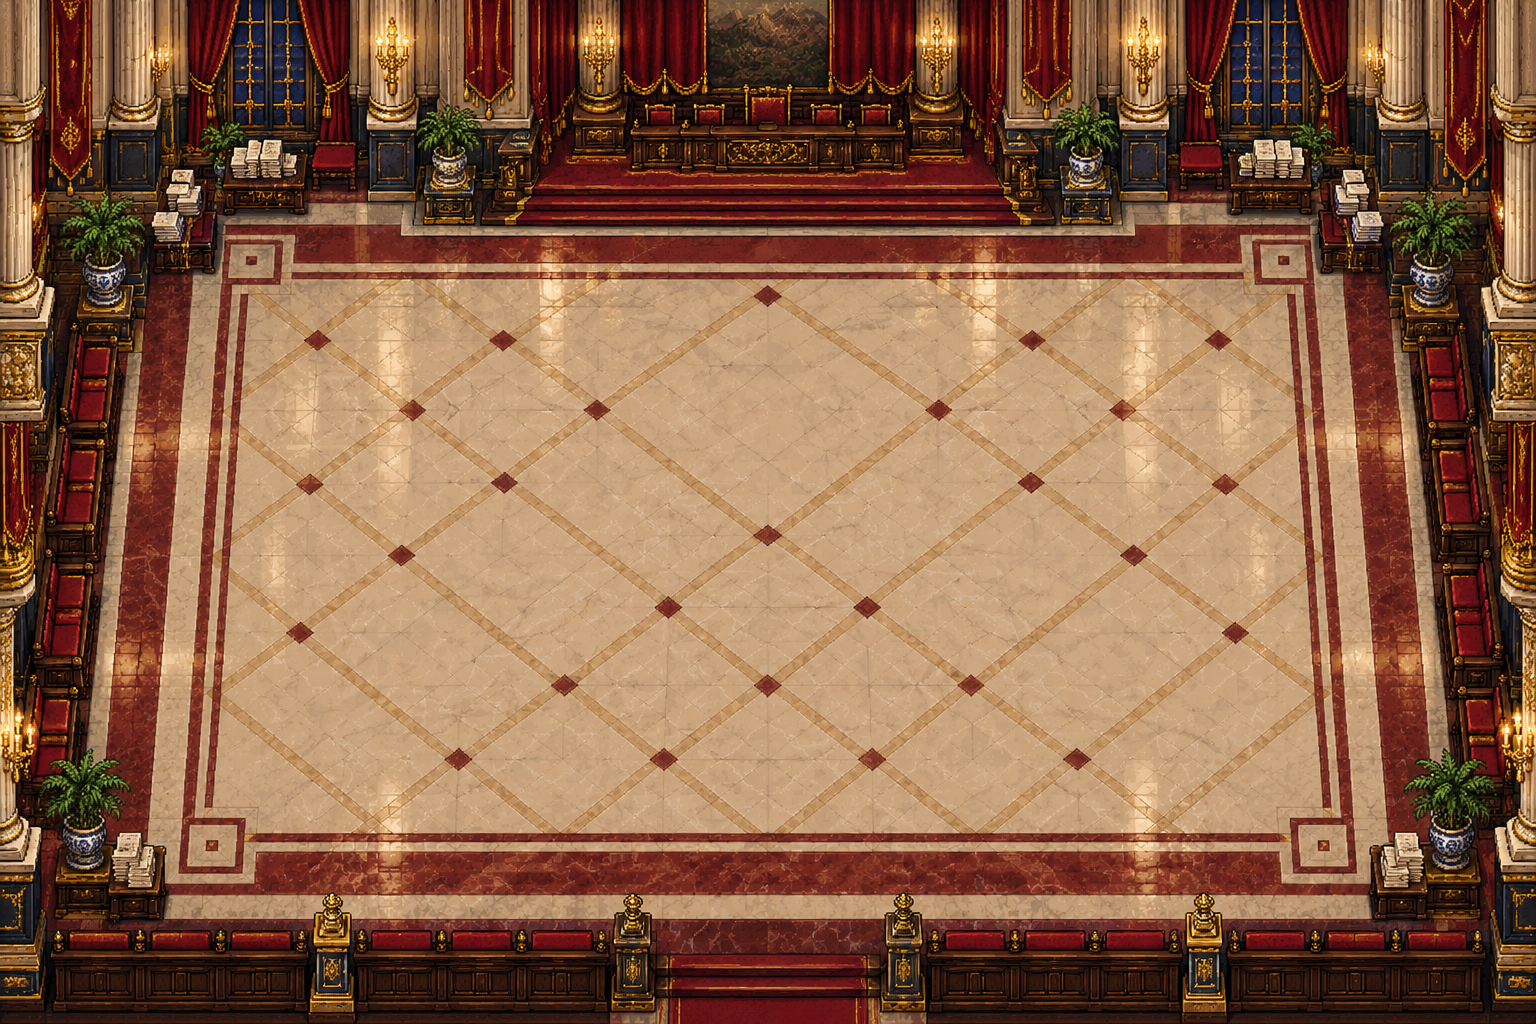
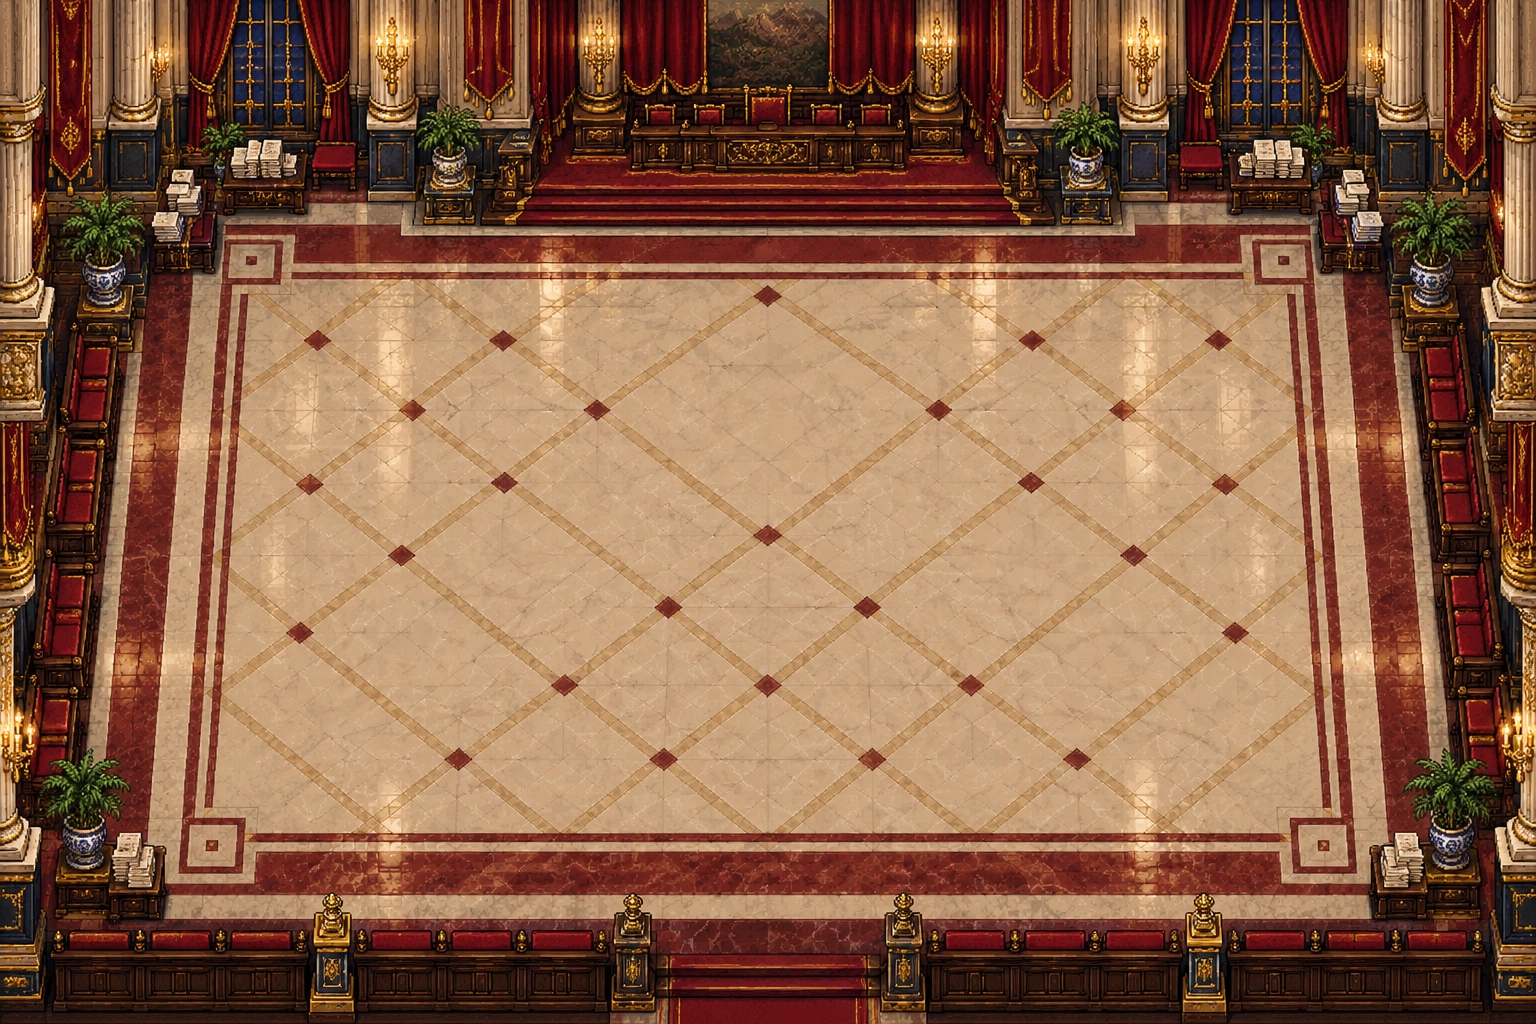
Sumergir objetos bajo dominios dinámicos (#383)
Los objetos y cofres cubiertos se hunden, quedan temporalmente fuera de interacción y reaparecen intactos al cerrar el dominio. También se recupera margen seguro para el paquete de despliegue.

Changed region(s): [[0.9375, 0.0625, 0.9688, 0.1562], [0.9688, 0.4375, 1.0, 0.4688], [0.0, 0.4375, 0.0312, 0.4688]]

diff --git a/src/systems/sideral-domain.js b/src/systems/sideral-domain.js
@@ -51,7 +51,15 @@ P.SideralDomain.introClean=function(c,w,h,d){const p=this.pose(d.age),label=(val
 {const arena=P.SideralDomain.arena;P.SideralDomain.arena=function(c,d,...args){const waveAt=d.waveAt,exit=d.exit?1-d.exit/d.exitTotal:0;d.waveAt=undefined;c.save();if(exit>0)c.globalAlpha=Math.max(.08,1-exit*.9);const result=arena.call(this,c,d,...args);c.restore();d.waveAt=waveAt;const waveAge=waveAt===undefined?99:d.age-waveAt;if(waveAge<1.05){const x=d.waveX??d.x,y=d.waveY??d.y;c.save();for(let i=0;i<4;i++){const q=Math.max(0,Math.min(1,waveAge/1.05+i*.13)),r=55+q*520;c.globalAlpha=(1-q)*.75;c.strokeStyle=i%2?'#f28bea':'#9a55ff';c.lineWidth=8-i;c.beginPath();c.ellipse(x,y,r,r*.58,0,0,Math.PI*2);c.stroke()}c.restore()}if(exit>0){c.save();for(let i=0;i<72;i++){const q=(i*29%73)/73,life=Math.max(0,Math.min(1,(exit-q)*4)),a=i*.79,r=80+(i%13)*38,x=d.x+Math.cos(a)*r,y=d.y+Math.sin(a)*r*.62-exit*90;c.globalAlpha=life*(1-exit*.45);c.fillStyle=i%3?'#b85cff':'#ff8de5';const size=3+(i%4)*2;c.fillRect(x,y,size,size)}c.restore()}return result}};
 {const tick=P.SideralDomain.tick,overlay=P.SideralDomain.overlay;P.SideralDomain.tick=function(dt){const d=P.state.sideralDomain;if(d&&!this.dynamic(d)&&(d.age<this.entryFor(d)||d.exit>0))for(const p of P.Court?.players?.()||[P.state.player])if(p?.hp>0)p.inv=Math.max(p.inv||0,dt+.12);return tick.call(this,dt)};P.SideralDomain.intro=function(c,w,h,d){const q=this.introShake(d.age);c.save();c.fillStyle='#120b19';c.fillRect(0,0,w,h);c.translate(q.x,q.y);const result=this.introClean(c,w,h,d);c.restore();return result};P.SideralDomain.overlay=function(c,w,h,d){const result=overlay.call(this,c,w,h,d);if(!d.exit)return result;const q=1-d.exit/d.exitTotal,pulse=Math.sin(Math.min(1,q/.36)*Math.PI);c.save();c.textAlign='center';c.font='900 '+Math.min(48,w/18)+'px monospace';c.lineWidth=Math.max(5,w/180);c.strokeStyle='#17091f';c.fillStyle='#fff0bd';c.globalAlpha=Math.min(1,q*5)*Math.max(0,1-(q-.72)*3);c.strokeText('¿QUÉ FUE?',w*.5,h*.2);c.fillText('¿QUÉ FUE?',w*.5,h*.2);c.globalAlpha=pulse;c.strokeStyle='#fff8d5';c.lineWidth=Math.max(3,w*.004);c.beginPath();c.moveTo(w*.36,h*.5);c.lineTo(w*.64,h*.5);c.stroke();c.fillStyle='#fff';c.fillRect(w*.495,h*.493,w*.01,h*.014);c.restore();P.Core.canvas?.setAttribute('aria-label','La Habitación del Lagarto se quiebra en píxeles y reconstruye el mapa original')};};
 P.SideralDomain.load();
-{const activate=P.Ultimate.activate,gain=P.Ultimate.gain,hud=P.Ultimate.hud,update=P.Game.update,start=P.Game.start,render=P.World.render,hit=P.PlayerFeedback.hit,hurt=P.Entities.hurt,terrainActive=P.Terrain.active,terrainHit=P.Terrain.hit,terrainResolve=P.Terrain.resolve,terrainDraw=P.Terrain.draw,worldDraw=P.World.draw,zoomFor=P.World.zoomFor,mapCamera=P.Maps.camera,mapCurrent=P.Maps.current,ambientItems=P.Ambient.items,dayGround=P.DayNight.ground,weatherDraw=P.Weather.draw,reactiveDraw=P.ReactiveBackground.draw,encounterDefinition=P.Encounters.definition,combatCast=P.Combat.cast,ultimateShake=P.Ultimate.shake;
+P.DomainScenery={
+ current(){const s=P.state,sd=s.sideralDomain,cd=s.ciriloDomain;if(sd&&P.SideralDomain.dynamic(sd))return{d:sd,entry:P.SideralDomain.entryFor(sd),rx:P.SideralDomain.roomWidth*.55,ry:P.SideralDomain.roomHeight*.62};if(cd&&P.CiriloUR?.dynamic?.(cd))return{d:cd,entry:P.CiriloUR.entryFor(cd),rx:P.CiriloArena.width*.52,ry:P.CiriloArena.height*.58};return null},
+ progress(info=this.current()){if(!info)return 0;const d=info.d;if(d.exit&&d.exitTotal)return Math.max(0,Math.min(1,d.exit/d.exitTotal));return Math.max(0,Math.min(1,d.age/info.entry))},
+ inside(o,info=this.current()){if(!info||!o||!Number.isFinite(o.x)||!Number.isFinite(o.y))return false;const nx=(o.x-info.d.x)/info.rx,ny=(o.y-info.d.y)/info.ry;return nx*nx+ny*ny<=1},
+ paint(ctx,o,draw,footprint=false){const info=this.current();if(!info||!this.inside(o,info)||String(o.kind||'').startsWith('sideral-')||String(o.kind||'').startsWith('cirilo-'))return false;const q=this.progress(info);if(q<=0)return false;ctx.save();if(q<.995){ctx.globalAlpha=1-q;ctx.translate(0,q*28);draw()}if(footprint&&o.solid&&q>.25){ctx.globalAlpha=.16*q;ctx.fillStyle='#100819';ctx.beginPath();ctx.ellipse(o.x,o.y+Math.max(5,(o.h||20)*.38),Math.max(10,(o.w||24)*.38),Math.max(4,(o.h||20)*.12),0,0,Math.PI*2);ctx.fill()}ctx.restore();return true},
+ hideChest(c){const info=this.current();return !!info&&!!info.d.arena&&!info.d.exit&&this.inside(c,info)},
+ lockChest(c){const info=this.current();return !!info&&this.progress(info)>0&&this.inside(c,info)}
+};
+{const activate=P.Ultimate.activate,gain=P.Ultimate.gain,hud=P.Ultimate.hud,update=P.Game.update,start=P.Game.start,render=P.World.render,hit=P.PlayerFeedback.hit,hurt=P.Entities.hurt,terrainActive=P.Terrain.active,terrainHit=P.Terrain.hit,terrainResolve=P.Terrain.resolve,terrainDraw=P.Terrain.draw,worldDraw=P.World.draw,zoomFor=P.World.zoomFor,mapCamera=P.Maps.camera,mapCurrent=P.Maps.current,ambientItems=P.Ambient.items,dayGround=P.DayNight.ground,weatherDraw=P.Weather.draw,reactiveDraw=P.ReactiveBackground.draw,encounterDefinition=P.Encounters.definition,combatCast=P.Combat.cast,ultimateShake=P.Ultimate.shake,lootActive=P.Loot.active,lootDrawChest=P.Loot.drawChest,lootCanOpen=P.Loot.canOpen;
 P.Ultimate.activate=function(...args){return activate.apply(this,args)};
 P.Ultimate.gain=function(...args){if(P.SideralDomain.eligible(P.state.player)){const u=P.state.ultimate;if(u&&!P.state.sideralDomain)u.charge=Math.min(100,u.charge+100/P.SideralDomain.chargeKills);return}return gain.apply(this,args)};
 P.Ultimate.hud=function(){hud.call(this);P.SideralDomain.hud()};
@@ -63,7 +71,7 @@ P.Entities.hurt=function(e,damage,...args){if(P.state.sideralDomain&&e?.sideralW
 P.Terrain.active=function(){const d=P.state.sideralDomain;if(d?.arena&&!P.SideralDomain.dynamic(d)&&!d.exit)return P.SideralDomain.props(d);return terrainActive.call(this)};
 P.Terrain.hit=function(x,y,r=0){const d=P.state.sideralDomain;if(d?.arena&&!P.SideralDomain.dynamic(d)&&!d.exit)return P.SideralDomain.props(d).find(o=>o.solid&&x>o.x-o.w/2-r&&x<o.x+o.w/2+r&&y>o.y-o.h/2-r&&y<o.y+o.h/2+r);return terrainHit.call(this,x,y,r)};
 P.Terrain.resolve=function(body,old,r=14){const d=P.state.sideralDomain,intended=d?.arena?{x:body.x,y:body.y}:null,obstacle=intended?P.Terrain.hit(body.x,body.y,r):null,result=terrainResolve.call(this,body,old,r);if(obstacle?.kind==='sideral-wall'&&Math.hypot(body.x-intended.x,body.y-intended.y)>.1)body.sideralWallHit={side:obstacle.side,x:body.x,y:body.y};return result};
-P.Terrain.draw=function(ctx,o){if(String(o?.kind||'').startsWith('sideral-')){const d=P.state.sideralDomain,exit=d?.exit?1-d.exit/d.exitTotal:0;ctx.save();ctx.globalAlpha=Math.max(.05,1-exit);const result=P.SideralDomain.furniture(ctx,o);if(exit>0&&o.kind==='sideral-desk'){ctx.globalAlpha=Math.min(1,exit*2);ctx.fillStyle='#08060b';ctx.fillRect(o.x-o.w/2+42,o.y-o.h/2-62,86,58);ctx.fillRect(o.x-o.w/2+137,o.y-o.h/2-62,86,58)}ctx.restore();return result}return terrainDraw.call(this,ctx,o)};
+P.Terrain.draw=function(ctx,o){if(String(o?.kind||'').startsWith('sideral-')){const d=P.state.sideralDomain,exit=d?.exit?1-d.exit/d.exitTotal:0;ctx.save();ctx.globalAlpha=Math.max(.05,1-exit);const result=P.SideralDomain.furniture(ctx,o);if(exit>0&&o.kind==='sideral-desk'){ctx.globalAlpha=Math.min(1,exit*2);ctx.fillStyle='#08060b';ctx.fillRect(o.x-o.w/2+42,o.y-o.h/2-62,86,58);ctx.fillRect(o.x-o.w/2+137,o.y-o.h/2-62,86,58)}ctx.restore();return result}if(P.DomainScenery.paint(ctx,o,()=>terrainDraw.call(this,ctx,o),true))return true;return terrainDraw.call(this,ctx,o)};
 P.World.draw=function(ctx,cx,cy,w,h,time){const d=P.state.sideralDomain;if(d?.arena){if(P.SideralDomain.dynamic(d)){const result=worldDraw.call(this,ctx,cx,cy,w,h,time),opacity=d.exit?d.exit/d.exitTotal:1,field={...d,age:P.SideralDomain.entryFor(d)};P.SideralDomain.construction(ctx,field,time,opacity);return result}if(d.exit>0)worldDraw.call(this,ctx,cx,cy,w,h,time);return P.SideralDomain.arena(ctx,d,cx,cy,w,h,time)}const result=worldDraw.call(this,ctx,cx,cy,w,h,time);if(d&&P.SideralDomain.dynamic(d)&&d.age<P.SideralDomain.entryFor(d))P.SideralDomain.construction(ctx,d,time);return result};
 P.World.zoomFor=function(w,h,playing,encounter){const d=P.state.sideralDomain,base=zoomFor.call(this,w,h,playing,encounter);if(!d?.arena||P.SideralDomain.dynamic(d))return base;const arena=Math.max(.62,Math.min(1.18,w/1280,h/980));return d.exit?P.DomainReturn.number(d,arena,base):arena};
 P.Maps.camera=function(...args){const d=P.state.sideralDomain;if(!d?.arena||P.SideralDomain.dynamic(d))return mapCamera.apply(this,args);const arena={x:d.x,y:d.y-70};if(!d.exit)return arena;return P.DomainReturn.frame(d,arena,mapCamera.apply(this,args))};
@@ -75,6 +83,9 @@ P.Ambient.items=function(...args){const d=P.state.sideralDomain;return d?.arena&
 P.DayNight.ground=function(...args){const d=P.state.sideralDomain;if(!d?.arena||P.SideralDomain.dynamic(d))return dayGround.apply(this,args)};
 P.Weather.draw=function(...args){const d=P.state.sideralDomain;if(!d?.arena||P.SideralDomain.dynamic(d))return weatherDraw.apply(this,args)};
 P.ReactiveBackground.draw=function(...args){const d=P.state.sideralDomain;if(!d?.arena||P.SideralDomain.dynamic(d))return reactiveDraw.apply(this,args)};
+P.Loot.active=function(...args){return lootActive.apply(this,args).filter(c=>!P.DomainScenery.hideChest(c))};
+P.Loot.drawChest=function(ctx,c){if(P.DomainScenery.paint(ctx,c,()=>lootDrawChest.call(this,ctx,c)))return true;return lootDrawChest.call(this,ctx,c)};
+P.Loot.canOpen=function(c){if(P.DomainScenery.lockChest(c))return false;return lootCanOpen.call(this,c)};
 }
 if(typeof Image!=='undefined'){
  const launch=document.createElement('button'),dynamicLaunch=document.createElement('button');launch.id='sideral-domain-practice';launch.textContent='Probar Sideral · Cinemática ↗';dynamicLaunch.id='sideral-domain-dynamic-practice';dynamicLaunch.textContent='Probar Sideral · Dominio dinámico ↗';P.$('#lobby-settings').prepend(dynamicLaunch,launch);

diff --git a/docs/GAME_DESIGN.md b/docs/GAME_DESIGN.md
@@ -6,7 +6,7 @@ La experiencia continúa acumulándose mientras cualquier expansión de dominio 
 
 ## Regla universal de continuidad al cerrar dominios
 
-La presentación dinámica usa como referencia el círculo de Kingteka: no sustituye el seguimiento normal, no cambia el zoom y no mueve actores a coordenadas de una arena. Su geometría aparece sobre el mapa y el combate continúa dentro del mismo espacio. Mobiliario, público, acompañantes y demás sprites propios se conservan como capas visuales sin colisión; no sustituyen ni bloquean el terreno real. La presentación cinematográfica puede recolocar actores, pero nunca puede liberar cámara, zoom o posiciones mediante un salto visible; debe interpolar el retorno durante su destrucción y alcanzar el encuadre ordinario antes de eliminar el estado. Movimiento reducido conserva la continuidad y elimina únicamente adornos intensos. Todo dominio nuevo debe probar que el modo dinámico mantiene cámara, zoom y coordenadas y que el último fotograma cinematográfico coincide con el primero del mapa restaurado.
+La presentación dinámica usa como referencia el círculo de Kingteka: no sustituye el seguimiento normal, no cambia el zoom y no mueve actores a coordenadas de una arena. Su geometría aparece sobre el mapa y el combate continúa dentro del mismo espacio. Los objetos y cofres contenidos por la huella se hunden progresivamente, dejan de ser interactivos cuando la construcción termina y vuelven a emerger intactos durante la salida; un sólido oculto conserva una marca tenue en el suelo. Mobiliario, público, acompañantes y demás sprites propios se conservan como capas visuales sin colisión. Enemigos, jugadores, proyectiles y avisos peligrosos nunca se ocultan. La presentación cinematográfica puede recolocar actores, pero nunca puede liberar cámara, zoom o posiciones mediante un salto visible; debe interpolar el retorno durante su destrucción y alcanzar el encuadre ordinario antes de eliminar el estado. Movimiento reducido conserva la continuidad y elimina únicamente adornos intensos. Todo dominio nuevo debe probar que el modo dinámico mantiene cámara, zoom y coordenadas y que el último fotograma cinematográfico coincide con el primero del mapa restaurado.
 
 Cooperativo: R activa el dominio; G confirma el combo compartido (también disponible por botón). Las partidas activas no caducan a los 45 min; ese plazo limpia salas de espera/resultados inactivos. Se cancelan entradas pendientes al desconectar o recuperar un socket, y no se admiten entradas mientras falta un compañero. La misma pestaña conserva una credencial efímera de recuperación en sessionStorage, renovada durante la partida y pagehide; al recargar, espera la comprobación de cuenta y solicita recuperar el grupo dentro de los 30 s del servidor. Salir, vencer el plazo o cambiar de cuenta elimina la recuperación; no se guarda en localStorage ni se sincroniza entre pestañas.
 
@@ -833,7 +833,7 @@ UR: 125 PV, velocidad 185, poder 28; charcos de radio 48 duran 4 s y aplican 15 
 
 Sideral: los aterrizajes del retroceso sacuden brevemente la cámara (último salto más fuerte), seguidos por un temblor leve de risa. Desplazamientos enteros sin reescalar sprites; movimiento reducido desactiva todo temblor. El dominio ofrece 8 s para auxiliar o saquear: jefes/minijefes están inmóviles e inmunes, con reacción pixel art de asco. Al terminar ambos jugadores vivos conservan al menos 0,8 s de protección. No puede iniciarse sobre otra cinemática a pantalla completa.
 
-Sideral admite dos presentaciones elegibles en Opciones. **Cinemática** conserva la introducción completa de 5,6 s. **Dominio dinámico** usa una construcción jugable de 2,6 s: el suelo de la habitación se extiende desde el punto de activación, los cuatro muros emergen por tramos y escritorio, biblioteca, sofá y silla se materializan con polvo y fragmentos violetas mientras movimiento, disparos, enemigos y HUD continúan activos. El anuncio usa la misma jerarquía espectacular de Kingteka —«EXPANSIÓN DE DOMINIO» arriba y «HABITACIÓN DEL LAGARTO» en dos líneas abajo— con gradiente, resplandor y anillo expansivo, sin cubrir la acción central. La habitación dinámica es una proyección visual sin colisión ni traslado; conserva los mismos 8 s y pulsos sobre el terreno real. Su salida dinámica dura 1,35 s y disuelve escenario, mobiliario y fragmentos; la cinemática conserva su cierre de 0,95 s y su arena física. La presentación elegida queda fijada al activar el dominio y, en cooperativo, viaja con la orden al servidor para que ambos jugadores compartan la misma duración. En el laboratorio una sola casilla compacta **Presentación dinámica** elige el modo de la siguiente activación; desmarcada usa la cinemática y el botón normal **Activar dominio · R** ejecuta la selección sin añadir botones flotantes al combate.
+Sideral admite dos presentaciones elegibles en Opciones. **Cinemática** conserva la introducción completa de 5,6 s. **Dominio dinámico** usa una construcción jugable de 2,6 s: el suelo de la habitación se extiende desde el punto de activación, los objetos y cofres cubiertos se hunden, los cuatro muros emergen por tramos y escritorio, biblioteca, sofá y silla se materializan con polvo y fragmentos violetas mientras movimiento, disparos, enemigos y HUD continúan activos. El anuncio usa la misma jerarquía espectacular de Kingteka —«EXPANSIÓN DE DOMINIO» arriba y «HABITACIÓN DEL LAGARTO» en dos líneas abajo— con gradiente, resplandor y anillo expansivo, sin cubrir la acción central. La habitación dinámica es una proyección visual sin colisión ni traslado; conserva los mismos 8 s y pulsos. Los cofres sumergidos no pueden abrirse y reaparecen sin perder contenido durante la salida de 1,35 s. La cinemática conserva su cierre de 0,95 s y su arena física. La presentación elegida queda fijada al activar el dominio y, en cooperativo, viaja con la orden al servidor para que ambos jugadores compartan la misma duración. En el laboratorio una sola casilla compacta **Presentación dinámica** elige el modo de la siguiente activación; desmarcada usa la cinemática y el botón normal **Activar dominio · R** ejecuta la selección sin añadir botones flotantes al combate.
 
 ## Supervivencia del Caos
 

diff --git a/README.md b/README.md
@@ -8,7 +8,7 @@ Supervivencia peruana con dieciocho personajes, cinco mapas, encuentros opcional
 
 ## Regla general de continuidad de los dominios
 
-Una Expansión de Dominio dinámica sigue el patrón de Kingteka: aparece sobre el combate existente y nunca toma control de la cámara, cambia el zoom ni recoloca actores. El escenario se construye y destruye en coordenadas del mapa mientras jugador, enemigos y proyectiles continúan su recorrido. Conserva el mobiliario, personajes secundarios y sprites distintivos del dominio como decoración visual sin colisión, de modo que no pierda su identidad al evitar la arena separada. Una presentación cinematográfica sí puede usar una arena separada; en ese caso su salida mezcla posiciones, cámara y zoom con el mapa original sin un corte visible. Los efectos de humo, fragmentos o luz no pueden ocultar avisos peligrosos. Esta regla es obligatoria para todos los dominios actuales y futuros, tanto en individual como en cooperativo.
+Una Expansión de Dominio dinámica sigue el patrón de Kingteka: aparece sobre el combate existente y nunca toma control de la cámara, cambia el zoom ni recoloca actores. El escenario se construye y destruye en coordenadas del mapa mientras jugador, enemigos y proyectiles continúan su recorrido. Los elementos del mapa cubiertos por su huella —incluidos cofres— se hunden durante la construcción, quedan temporalmente fuera de interacción y reaparecen intactos al disolverse el dominio; los sólidos dejan una sombra tenue para no crear colisiones invisibles. El dominio conserva su propio mobiliario, personajes secundarios y sprites distintivos como decoración visual sin colisión. Una presentación cinematográfica sí puede usar una arena separada; en ese caso su salida mezcla posiciones, cámara y zoom con el mapa original sin un corte visible. Los efectos de humo, fragmentos o luz no pueden ocultar avisos peligrosos. Esta regla es obligatoria para todos los dominios actuales y futuros, tanto en individual como en cooperativo.
 
 Estabilidad cooperativa: paquetes WebSocket de más de 1 KiB usan compresión rápida negociada, sin retener contexto, con dos tareas concurrentes como máximo; el límite de entrada de 2 KiB sigue aplicándose tras descomprimir. una excepción se limita a su sala y queda registrada; salud muestra errores y coste de tick/serialización agregados. Reconectar con el token válido sustituye la conexión anterior sin perder el grupo. El cliente procesa el último estado por fotograma, conserva el resultado final y evita recargarse automáticamente mientras tiene sala. Scripts VM compilados se reutilizan, manteniendo una VM independiente por sala. Las publicaciones solicitan reinicio al quedar el servidor sin salas: las partidas existentes no se cierran por cambiar de release (un reinicio forzado del contenedor sigue interrumpiéndolas). El backend puede permanecer temporalmente en la release anterior hasta quedar libre.
 

diff --git a/docs/ARCHITECTURE.md b/docs/ARCHITECTURE.md
@@ -707,7 +707,7 @@ SideralDomain fija `presentationOverride` al activar para que una preferencia ca
 
 CiriloUR reutiliza el mismo `domainPresentation` y fija `presentationOverride` al activar. `entryFor` conserva 10,2 s para la cinemática y usa 3,2 s para la construcción dinámica; durante esta última `Progression.cinematicOnly` permanece falso. `CiriloArena.construction` compone suelo, bancadas, estrado, Sandy y espectadores sobre el mapa. En modo dinámico `CiriloArena.enter` activa solo el reloj visual; paredes, posiciones guardadas y traslado pertenecen exclusivamente a la arena cinematográfica. El servidor avanza `ciriloDomain`, publica su elección sin serializar referencias locales de arena y ambos clientes reciben el mismo reloj.
 
-`P.DomainReturn` es el contrato común de cierre para arenas cinematográficas temporales. Deriva una curva suave exclusivamente de `exit/exitTotal`, captura la posición al comenzar la destrucción y mezcla actores, cámara y zoom hacia el mapa original antes de que el dominio elimine su estado. No guarda referencias dentro del estado serializable ni decide destinos: Sideral y Cirilo conservan sus coordenadas autoritativas `_sideralReturn*` y `_ciriloReturn*`. En presentación dinámica no se invoca el retorno porque no existe traslado: `enter` activa el reloj y prepara decoraciones locales, pero `Terrain.active` continúa devolviendo el terreno real; `World.draw` compone geometría, mobiliario y sprites del dominio como capas sin colisión. Los dominios futuros deben separar ambos contratos explícitamente.
+`P.DomainReturn` es el contrato común de cierre para arenas cinematográficas temporales. Deriva una curva suave exclusivamente de `exit/exitTotal`, captura la posición al comenzar la destrucción y mezcla actores, cámara y zoom hacia el mapa original antes de que el dominio elimine su estado. No guarda referencias dentro del estado serializable ni decide destinos: Sideral y Cirilo conservan sus coordenadas autoritativas `_sideralReturn*` y `_ciriloReturn*`. En presentación dinámica no se invoca el retorno porque no existe traslado: `enter` activa el reloj y prepara decoraciones locales, pero `Terrain.active` continúa devolviendo el terreno real; `World.draw` compone geometría, mobiliario y sprites del dominio como capas sin colisión. `P.DomainScenery` calcula una huella elíptica común, atenúa y desplaza el dibujo de props cubiertos, conserva una marca de sólidos y filtra cofres de `Loot.active` únicamente durante la fase construida. No modifica los arreglos autoritativos: al iniciar la salida vuelve a exponer los cofres y usa `exit/exitTotal` para hacerlos emerger; `Loot.canOpen` impide abrirlos mientras estén cubiertos. Los dominios futuros deben separar ambos contratos explícitamente.
 
 ### Director de partidas largas
 
